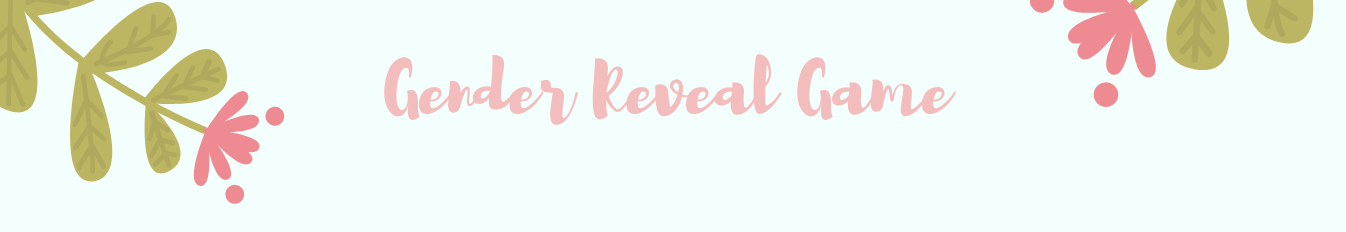
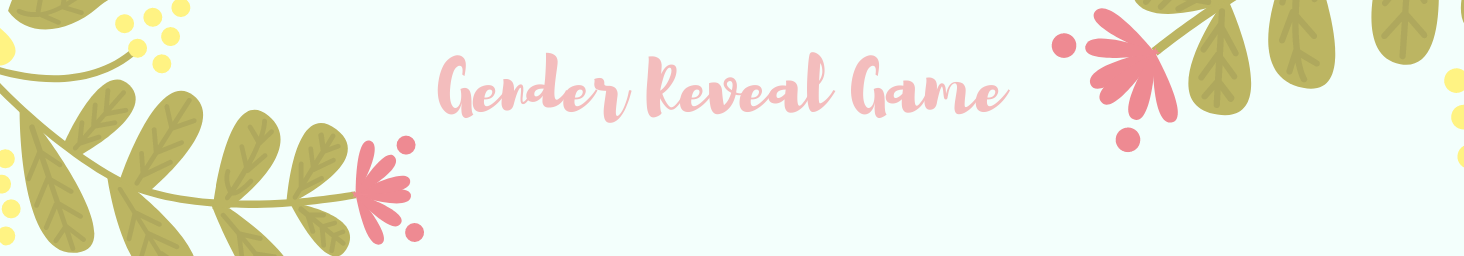
mudanca fonte

diff --git a/js/style.css b/js/style.css
@@ -1,4 +1,4 @@
-@import url('http://fonts.cdnfonts.com/css/brusher');
+@import url('http://fonts.cdnfonts.com/css/sappire');
 
 
 html {
@@ -19,8 +19,11 @@ body {
     padding: 5px;
     background-color: #f3bdbd;
     text-align: center;
-    font-family: 'brusher';
+    font-family: 'Sappire';
     color: rgb(48, 46, 46);
+    margin-left: 15px;
+    height: 75px;
+    width: 260px;
 
 }
 
@@ -30,8 +33,11 @@ body {
     border-style: dashed;
     padding: 5px;
     background-color: #f3bdbd;
-    font-family: 'brusher';
+    font-family: 'Sappire';
     color: rgb(48, 46, 46);
+    margin-left: 15px;
+    height: 75px;
+    width: 260px;
 }
 
 .button-div {
@@ -41,7 +47,10 @@ body {
     padding: 5px;
     background-color: #f3bdbd;
     color: rgb(48, 46, 46);
-    font-family: 'brusher';
+    font-family: 'Sappire';
+    margin-left: 15px;
+    height: 75px;
+    width: 260px;
 }
 
 #botoes {
@@ -65,7 +74,7 @@ body {
 
 h1 {
   font-size: 64px;
-  font-style: normal;
+  font-family: 'Sappire';
   font-weight: 700;
   line-height: 86px;
   letter-spacing: 0em;
@@ -76,26 +85,38 @@ h1 {
 
 h2 {
     font-size: 40px;
-    font-style: normal;
+    font-family: 'Sappire';
     font-weight: 600;
     line-height: 80px;
     text-align: center;
-    color:#5cb34b;
+    color:purple;
 
 }
 
 p {
     font-size: 25px;
-    color:#5cb34b;
+    color:black;
     text-align: justify;
+    font-family: 'Sappire';
+}
+
+strong {
+    font-family: 'Sappire';
+}
+
+li {
+    font-family: 'Sappire';
+    font-size: 50px;
 }
 
 .game-score {
     display: none;
-    font-size: 30px;
-    color: rgb(230, 80, 80);
+    font-size: 100px;
+    font-style: italic;
+    color: rgb(11, 51, 16);
     padding: 0px 0px 0px 20px;
 }
+
 
 .about {
     background-color: seashell;
@@ -151,6 +172,7 @@ p {
 
 #fralda-suja {
     width: 100px;
+    size: 5px;
 }
 
 .canvas {

diff --git a/how-to.html b/how-to.html
@@ -16,12 +16,21 @@
       <li>Use <img src="./Images/seta-esquerda.png" alt="seta-esquerda-img" class="seta"> and <img src="Images/seta-direita.png" alt="seta-direita-img" class="seta"> </li>
       <li>Catch <img src="./Images/laco-rosa.gif" alt="laco-rosa-img" id="laco-rosa"> to get points.</li>
       <li>Avoid <img src="./Images/laco-azul.png" alt="laco-azul-img" id="laco-azul">  to not lose points.</li>
+      <br />
+      <br />
+      <br />
       <li>Escape from <img src="./Images/fralda-suja.jpg" alt="fralda-suja-img" id="fralda-suja"> to not lose the game.</li>
       <br>
     </div>
 
     <div class= "jogo">
-        <strong>Get 20 points to win!</strong>
+        <strong>GET 20 POINTS TO WIN!</strong>
+        <br />
+        <br />
+        <br />
+        <br />
+        <br />
+        <br />
         <strong> HAVE FUN!</strong>
       </div>
       <br />

diff --git a/about-me.html b/about-me.html
@@ -12,9 +12,9 @@
     <div>
         <h1> Hey everyone,</h1>
         <h2> My name is Thais Fernandes, I'm Web Development student at Ironhack!</h2>
-        <p> I am from Brazil, but from the past five years I'm living in Portugal.</p>
-        <p> A few months ago I had the best surprise, I AM PREGNANT!!</p>
-        <p> And that's the theme of the game, I hope you all enjoy it!</p>
+        <h2> I am from Brazil, but from the past five years I'm living in Portugal.</h2>
+        <h2> A few months ago I had the best surprise, I AM PREGNANT!!</h2>
+        <h2> And that's the theme of the game, I hope you all enjoy it!</h2>
     </div>
     <br />
     <br />
